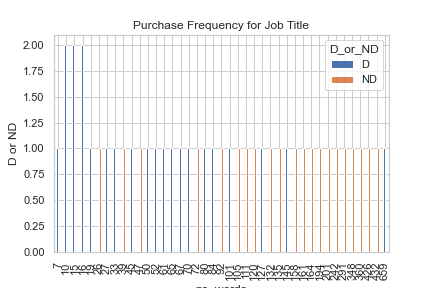
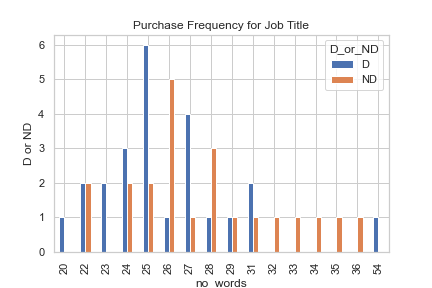
Med logreg_class

diff --git a/logreg_classifier.py b/logreg_classifier.py
@@ -6,28 +6,45 @@ import pandas as pd
 import numpy as np
 from sklearn import preprocessing
 import matplotlib.pyplot as plt
+from sklearn import metrics
+import seaborn as sn
 plt.rc("font", size=14)
 sns.set(style="white")
 sns.set(style="whitegrid", color_codes=True)
 
 # %%
-data = pd.read_csv('Data/CSV/New_Data.csv', header=0)
-data = data.dropna()
-print(data.shape)
-print(list(data.columns))
+df = pd.read_csv('Data/CSV/Length.csv', header=0)
+df = df.dropna()
+print(df.shape)
+print(list(df.columns))
+
+#%%
+#Ændrer nogle af navnene på columns
+df = df.rename(columns={'Length of longest word': 'max_word_length'})
+df = df.rename(columns={'Most common word Length': 'Most_common_word_length'})
+df = df.rename(columns={'Occurence %': 'Occurence_perc'})
+print(df)
+df.to_csv(r'Data/newnames.csv')
 
 # %%
-data['adj %'].unique
+#indsætter D_or_ND kolonne
+df.insert(1, "D_or_ND", ['ND','ND','ND','ND','ND','ND','ND','ND','ND','ND','ND','ND','ND','ND','ND','ND','ND','ND','ND','ND','ND','ND','D','D','D','D','D','D','D','D','D','D','D','D','D','D','D','D','D','D','D','D','D','D','D','D'], True)
 
 # %%
+data = df
+#%%
+data['max_word_length'].unique
+
+# %% 
+#Hvor mange i hver gruppe 
 data['D_or_ND'].value_counts()
 
-# %%
 sns.countplot(x='D_or_ND', data=data, palette='hls')
 plt.show()
 plt.savefig('count_plot')
 
-# %%
+# %% 
+#Virker ikke
 count_no_sub = len(data[data['D_or_ND'] == 0])
 count_sub = len(data[data['D_or_ND'] == 1])
 pct_of_no_sub = count_no_sub/(count_no_sub+count_sub)
@@ -40,17 +57,87 @@ print("percentage of subscription", pct_of_sub*100)
 data.groupby('D_or_ND').mean()
 
 # %%
-data.groupby('noun %').mean()
+#usikker på hvad denne viser
+data.groupby('max_word_length').mean()
 
 # %%
+#Det her burde kunne bruges.
+#Plotter maximum word length og i hvilken gruppe det kommer
 %matplotlib inline
-pd.crosstab(data.no_useless_tokens, data.D_or_ND).plot(kind='bar')
-plt.title('Purchase Frequency for Job Title')
-plt.xlabel('no_words')
+pd.crosstab(data.max_word_length, data.D_or_ND).plot(kind='bar')
+plt.title('Plot')
+plt.xlabel('Maximum word length')
 plt.ylabel('D or ND')
-plt.savefig('purchase_fre_job')
+plt.savefig('Plot')
 
+#%%
+table=pd.crosstab(data.max_word_length,data.D_or_ND)
+table.div(table.sum(1).astype(float), axis=0).plot(kind='bar', stacked=True)
+plt.title('Maximum word length')
+plt.xlabel('Maximum word length')
+plt.ylabel('Proportion of Customers')
+plt.savefig('Plot2')
+
+#%%
+#Kan ikke rigtig bruges
+table=pd.crosstab(data.Occurence_perc,data.D_or_ND)
+table.div(table.sum(1).astype(float), axis=0).plot(kind='bar', stacked=True)
+plt.title('Maximum word length')
+plt.xlabel('Maximum word length')
+plt.ylabel('Proportion of Customers')
+plt.savefig('Plot3')
+
+#%%
+#%%
+table=pd.crosstab(data.Most_common_word_length,data.D_or_ND)
+table.div(table.sum(1).astype(float), axis=0).plot(kind='bar', stacked=True)
+plt.title('Most common word length')
+plt.xlabel('Most common word length')
+plt.ylabel('Proportion of students')
+plt.savefig('Plot3')
+
+
+#%%
+#Kan bruges
+data.Most_common_word_length.hist()
+plt.title('Most common word length')
+plt.xlabel('Most common word length')
+plt.ylabel('Frequency')
+plt.savefig('hist_most_common_word_length')
 
 ######
+#CLASSIFIER KODE STARTER HER
 
+# %%
+#Renamer D og ND til 1 og 0
+df["D_or_ND"].replace({"D": "1", "ND": "0"}, inplace=True)
+df
+#%%
+#Setting independent (x) og dependent variables (y)
+X = df[['max_word_length', 'Most_common_word_length','Occurence_perc']]
+y = df['D_or_ND']
+df
+#%%
+#Splitting data to train and test set
+#test size = 25 %
+#train size = 75 %
+X_train,X_test,y_train,y_test = train_test_split(X,y,test_size=0.25,random_state=0)
+# %%
+#Applying the logistic regression
+logistic_regression= LogisticRegression()
+logistic_regression.fit(X_train,y_train)
+y_pred=logistic_regression.predict(X_test)
+# %%
+#Making confusion matrix
+confusion_matrix = pd.crosstab(y_test, y_pred, rownames=['Actual'], colnames=['Predicted'])
+sn.heatmap(confusion_matrix, annot=True)
+# %%
+#Printing accuracy and plotting confusion matrix
+print('Accuracy: ',metrics.accuracy_score(y_test, y_pred))
+plt.show()
+
+# %%
+print(X_test)
+#%%
+print(y_pred)
 # %%
